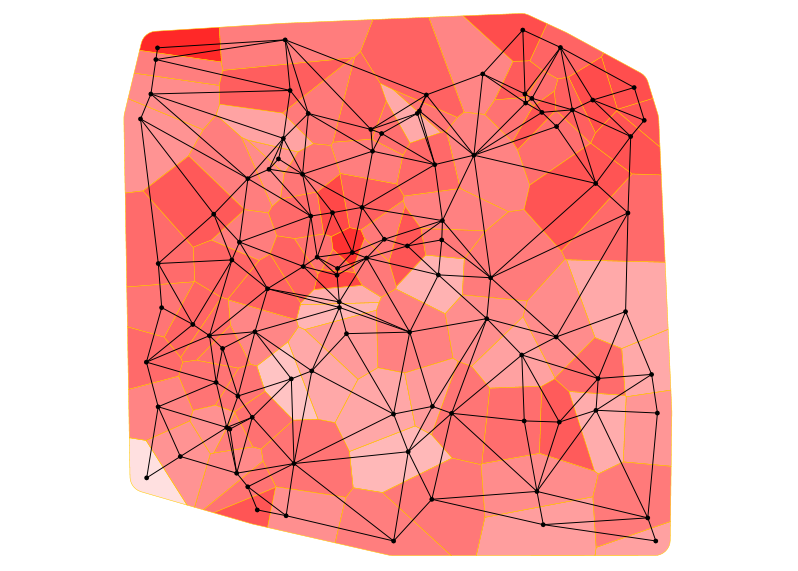
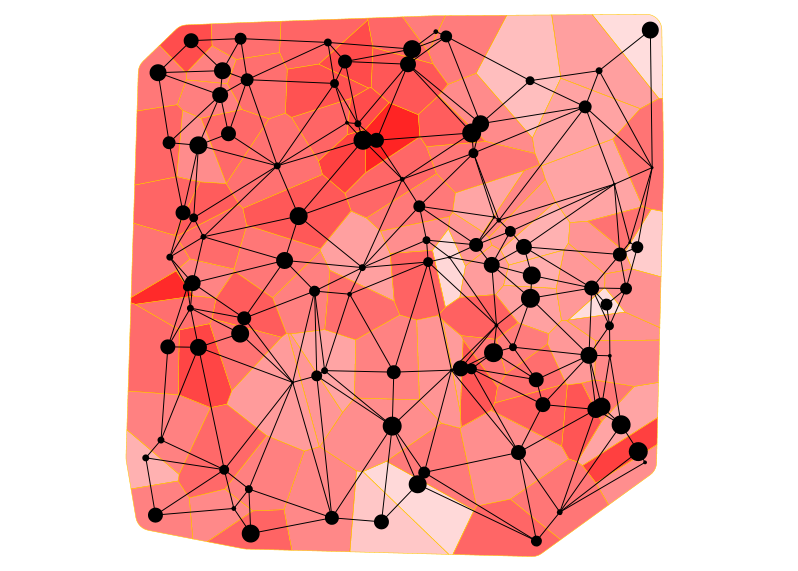
Use two phony strategies to try and mix the results, update the screenshot

diff --git a/src/Simulation.java b/src/Simulation.java
@@ -1,5 +1,3 @@
-import java.awt.Dimension;
-import java.awt.Rectangle;
 import java.util.ArrayList;
 import java.util.Random;
 
@@ -83,6 +81,7 @@ public class Simulation {
 		  // Save a screenshot.
 		  this.lots.addAttribute("ui.screenshot", "../screenshot.png");
 
+		  this.strategies.add(new AverageDensityStrategy(this));
 		  this.strategies.add(new LotPositioningStrategy(this));
 
 		  for(int i = 0; i < 100; ++i) {
